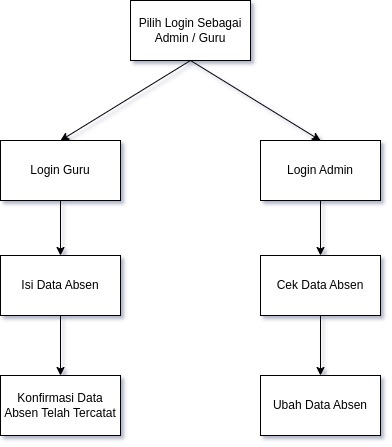
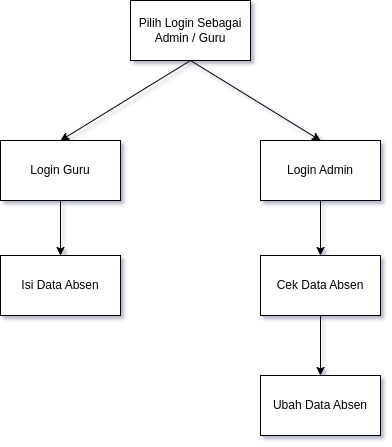
Fix sitemap and mockup link

Changed region(s): [[0.0, 0.8434, 0.3367, 0.9888], [0.1224, 0.8143, 0.1837, 0.8434]]

diff --git a/README.md b/README.md
@@ -1,3 +1,3 @@
 # Sistem Informasi Kehadiran Guru
 
-[Link Mockup Figma](https://www.figma.com/proto/tIgOCQ4ZdA5bVKsY6J2Cxh/SIKG-Mockup?node-id=73-2&starting-point-node-id=73%3A2&t=K6lk8m28FkGF8v9g-1)
+[Link Mockup Figma](https://www.figma.com/design/tIgOCQ4ZdA5bVKsY6J2Cxh/SIKG-Mockup?node-id=0-1&t=QW4fvOxWuP5HfbLB-1)
